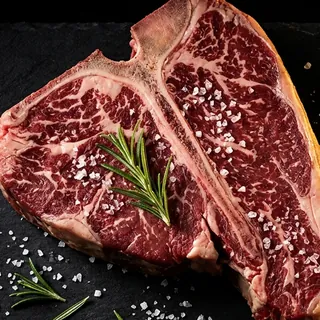
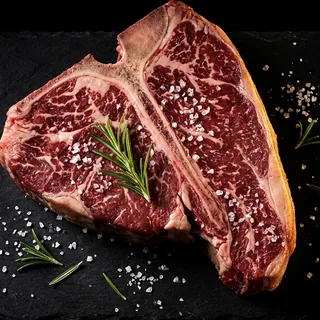
Фото класів мармуру (рібай, нью-йорк, ковбой, томагавк, ті-бон, портерхаус), нові альтернативні й «Для гриля й казана» за списком власника; міньйон повернуто; мініатюри в картках гриля; томагавк з кісткою, значок генератора закрито фактурою

diff --git a/js/products.js b/js/products.js
@@ -30,59 +30,64 @@ window.PRODUCTS = [
   { id: 'ribeye',      cat: 'classic', name: 'Рібай',       en: 'Ribeye',       desc: 'Найсоковитіший, щедрий мармур',       perKg: 1700, weight: 350,  badge: 'Хіт',              photo: 'images/ribeye.webp', featured: true,
     cook: [['Просмаження', 'medium rare, 54–56 °C'], ['Сковорода', '3–4 хв з кожного боку, 5 хв відпочинку'], ['Порада', 'Посоли за 40 хв до смаження — скоринка буде кращою']],
     grades: [
-      { id: 'select', label: 'Select', perKg: 0, photo: '' },
-      { id: 'choice', label: 'Choice', perKg: 0, photo: '' },
-      { id: 'prime',  label: 'Prime',  perKg: 0, photo: '' }
+      { id: 'select', label: 'Select', perKg: 0, photo: 'images/ribeye-select.webp' },
+      { id: 'choice', label: 'Choice', perKg: 0, photo: 'images/ribeye-choice.webp' },
+      { id: 'prime',  label: 'Prime',  perKg: 0, photo: 'images/ribeye-prime.webp' }
     ] },
   { id: 'striploin',   cat: 'classic', name: 'Нью-Йорк',    en: 'Striploin',    desc: 'Щільний, з яскравим смаком',          perKg: 1200, weight: 350,  badge: 'Витримка 21 день', photo: 'images/striploin.webp',
     grades: [
-      { id: 'select', label: 'Select', perKg: 0, photo: '' },
-      { id: 'choice', label: 'Choice', perKg: 0, photo: '' },
-      { id: 'prime',  label: 'Prime',  perKg: 0, photo: '' }
+      { id: 'select', label: 'Select', perKg: 0, photo: 'images/striploin-select.webp' },
+      { id: 'choice', label: 'Choice', perKg: 0, photo: 'images/striploin-choice.webp' },
+      { id: 'prime',  label: 'Prime',  perKg: 0, photo: 'images/striploin-prime.webp' }
     ] },
   { id: 't-bone',      cat: 'classic', name: 'Ті-бон',      en: 'T-bone',       desc: 'Два стейки на одній кістці',          perKg: 1250, weight: 500,  badge: '',                 photo: 'images/t-bone.webp',
     grades: [
-      { id: 'classic', label: 'Класичний', perKg: 0, photo: '' },
-      { id: 'prime',   label: 'Prime',     perKg: 0, photo: '' }
+      { id: 'classic', label: 'Класичний', perKg: 0, photo: 'images/t-bone-classic.webp' },
+      { id: 'prime',   label: 'Prime',     perKg: 0, photo: 'images/t-bone-prime.webp' }
     ] },
   { id: 'porterhouse', cat: 'classic', name: 'Портерхаус',  en: 'Porterhouse',  desc: 'Як ті-бон, але більше вирізки',       perKg: 1300, weight: 600,  badge: '',                 photo: 'images/porterhouse.webp',
     grades: [
-      { id: 'classic', label: 'Класичний', perKg: 0, photo: '' },
-      { id: 'prime',   label: 'Prime',     perKg: 0, photo: '' }
+      { id: 'classic', label: 'Класичний', perKg: 0, photo: 'images/porterhouse-classic.webp' },
+      { id: 'prime',   label: 'Prime',     perKg: 0, photo: 'images/porterhouse.webp' }
     ] },
   { id: 'cowboy',      cat: 'classic', name: 'Ковбой',      en: 'Cowboy',       desc: 'Рібай на короткій кістці',            perKg: 1550, weight: 700,  badge: '',                 photo: 'images/cowboy.webp',
     grades: [
-      { id: 'select', label: 'Select', perKg: 0, photo: '' },
-      { id: 'choice', label: 'Choice', perKg: 0, photo: '' },
-      { id: 'prime',  label: 'Prime',  perKg: 0, photo: '' }
+      { id: 'select', label: 'Select', perKg: 0, photo: 'images/cowboy-select.webp' },
+      { id: 'choice', label: 'Choice', perKg: 0, photo: 'images/cowboy-choice.webp' },
+      { id: 'prime',  label: 'Prime',  perKg: 0, photo: 'images/cowboy.webp' }
     ] },
   { id: 'tomahawk',    cat: 'classic', name: 'Томагавк',    en: 'Tomahawk',     desc: 'Рібай на довгій кістці, для компанії', perKg: 1600, weight: 1100, badge: 'Витримка 21 день', photo: 'images/tomahawk.webp', featured: true,
     cook: [['Просмаження', 'medium rare, 54–56 °C'], ['Як готувати', 'Духовка 120 °C до 50 °C всередині, потім 1–2 хв на бік на гриль'], ['Порція', 'на 2–3 людей']],
     grades: [
-      { id: 'select', label: 'Select', perKg: 0, photo: '' },
-      { id: 'choice', label: 'Choice', perKg: 0, photo: '' },
-      { id: 'prime',  label: 'Prime',  perKg: 0, photo: '' }
+      { id: 'select', label: 'Select', perKg: 0, photo: 'images/tomahawk-select.webp' },
+      { id: 'choice', label: 'Choice', perKg: 0, photo: 'images/tomahawk-choice.webp' },
+      { id: 'prime',  label: 'Prime',  perKg: 0, photo: 'images/tomahawk-prime.webp' }
     ] },
   { id: 'club',        cat: 'classic', name: 'Клаб-стейк',  en: 'Club steak',   desc: 'Нью-Йорк на кістці',                   perKg: 0,    weight: 450,  badge: '',                 photo: '',
     grades: [
       { id: 'classic', label: 'Класичний', perKg: 0, photo: '' },
       { id: 'prime',   label: 'Prime',     perKg: 0, photo: '' }
     ] },
-  { id: 'filet',       cat: 'classic', name: 'Міньйон',     en: 'Filet mignon', desc: 'Найніжніший, з центру вирізки',       perKg: 2200, weight: 300,  badge: '',                 photo: 'images/filet-mignon.webp' },
+  { id: 'filet',       cat: 'classic', name: 'Міньйон',     en: 'Filet mignon', desc: 'Найніжніший, з центру вирізки',       perKg: 2200, weight: 300,  badge: '',                 photo: 'images/filet-mignon.webp' },  // без класів мармуру — одна позиція
 
-  // ---------- АЛЬТЕРНАТИВНІ (склад від 28.09: лише ці 6) ----------
+  // ---------- АЛЬТЕРНАТИВНІ (склад від 29.09) ----------
   // perKg: 0 / price: 0 — ціна ще не вказана: на сайті «Ціну уточнюйте» і кнопка дзвінка замість «В кошик».
-  { id: 'top-blade',   cat: 'alt', name: 'Топ блейд',   en: 'Top blade',      desc: 'Лопатковий стейк з жилкою по центру', perKg: 0,   weight: 300, badge: '',    photo: 'images/top-blade.webp', like: 'Ніжний, з яскравим смаком — той самий м’яз, що й флет-айрон' },
-  { id: 'chuck-roll',  cat: 'alt', name: 'Чак-ай рол',  en: 'Chuck eye roll', desc: 'Продовження рібаю з лопаткової частини', perKg: 850, weight: 350, badge: '', photo: 'images/chuck-roll.webp', like: 'Схожий на рібай, а ціна нижча' },
-  { id: 'flank',       cat: 'alt', name: 'Фланк',       en: 'Flank',          desc: 'Яскравий м’ясний смак',       perKg: 750, weight: 400, badge: '',    photo: 'images/flank.webp', like: 'Нежирний, різати тонко поперек волокон' },
-  { id: 'rump',        cat: 'alt', name: 'Рамп',        en: 'Rump',           desc: 'Щільний стейк з огузка',       perKg: 0,   weight: 350, badge: '',    photo: '', like: 'Нежирний, з глибоким «м’ясним» смаком' },
-  { id: 'top-round',   cat: 'alt', name: 'Топ раунд',   en: 'Top round',      desc: 'Найпісніший стейк зі стегна',  perKg: 0,   weight: 350, badge: '',    photo: '', like: 'До medium rare і тонко поперек волокон — або на ростбіф' },
-  { id: 'ossobuco',    cat: 'alt', name: 'Оссобуко',    en: 'Ossobuco',       desc: 'Зріз гомілки з мозковою кісткою', perKg: 470,   weight: 450, badge: '',    photo: '', like: 'Не для пательні: тушкувати 2–3 год — м’ясо тане, мозок — делікатес' },
-  { id: 'picanha',     cat: 'alt', name: 'Піканья',     en: 'Picanha',        desc: 'З жировою шапкою, хіт гриля', perKg: 950, weight: 350, badge: 'Хіт', photo: 'images/picanha.webp', like: 'Соковита, як рібай, завдяки жировій шапці' },
+  { id: 'picanha',     cat: 'alt', name: 'Піканья',       en: 'Picanha',      desc: 'З жировою шапкою, хіт гриля',             perKg: 950, weight: 350, badge: 'Хіт', photo: 'images/picanha.webp', like: 'Соковита, як рібай, завдяки жировій шапці' },
+  { id: 'rump',        cat: 'alt', name: 'Рамп',          en: 'Rump',         desc: 'Щільний стейк з огузка',                  perKg: 0,   weight: 350, badge: '',    photo: 'images/rump.webp', like: 'Нежирний, з глибоким «м’ясним» смаком' },
+  { id: 'topside',     cat: 'alt', name: 'Топ сайд',      en: 'Topside',      desc: 'Нежирний стейк з внутрішньої частини стегна', perKg: 0, weight: 350, badge: '', photo: 'images/topside.webp', like: 'До medium rare і тонко поперек волокон — або цілим на ростбіф' },
+  { id: 'silverside',  cat: 'alt', name: 'Сильвер сайд',  en: 'Silverside',   desc: 'Нежирний стейк із зовнішньої частини стегна', perKg: 0, weight: 350, badge: '', photo: 'images/silverside.webp', like: 'Найкраще — маринад і швидке смаження або довге тушкування' },
+  { id: 'tri-tip',     cat: 'alt', name: 'Трай-тип',      en: 'Tri-tip',      desc: 'Каліфорнійська класика',                  perKg: 850, weight: 400, badge: '',    photo: 'images/tri-tip.webp', like: 'Цілий шматок на гриль для компанії' },
+  { id: 'eye-round',   cat: 'alt', name: 'Ай раунд',      en: 'Eye of round', desc: 'Круглий нежирний медальйон зі стегна',    perKg: 0,   weight: 300, badge: '',    photo: 'images/eye-round.webp', like: 'Формою як міньйон, але щільніший — не пересмажуй' },
+  { id: 'top-blade',   cat: 'alt', name: 'Топ блейд',     en: 'Top blade',    desc: 'Лопатковий стейк з жилкою по центру',     perKg: 0,   weight: 300, badge: '',    photo: 'images/top-blade.webp', like: 'Ніжний, з яскравим смаком — той самий м’яз, що й флет-айрон' },
+  { id: 'spider',      cat: 'alt', name: 'Спайдер',       en: 'Spider steak', desc: 'Рідкісний «стейк м’ясника» зі стегна',    perKg: 0,   weight: 250, badge: '',    photo: '', like: 'Мармур павутинкою, дуже соковитий — з однієї туші лише два' },
+  { id: 'flank',       cat: 'alt', name: 'Фланк',         en: 'Flank',        desc: 'Яскравий м’ясний смак',                   perKg: 750, weight: 400, badge: '',    photo: 'images/flank.webp', like: 'Нежирний, різати тонко поперек волокон' },
+  { id: 'bavette',     cat: 'alt', name: 'Бавет',         en: 'Bavette',      desc: 'Найкраще бере маринад',                   perKg: 700, weight: 350, badge: '',    photo: 'images/bavette.webp', like: 'Як фланк, але м’якший і соковитіший' },
 
-  // ---------- БУРГЕР І ШАШЛИК ----------
-  { id: 'burger-200',  cat: 'burger', name: 'Бургерна котлета', en: 'Burger patty',    desc: 'Фарш з обрізі витриманих стейків, 20% жиру, без добавок', price: 0, pack: '200 г', badge: '', photo: 'images/patties-200.webp' },
-  { id: 'shashlyk',    cat: 'burger', name: 'Шашлик з вирізки', en: 'Tenderloin kebab', desc: 'Сирий: кубики яловичої вирізки в маринаді, у вакуумі — одразу на мангал', perKg: 800, weight: 1000, badge: 'Новинка', photo: '' }
+  // ---------- ДЛЯ ГРИЛЯ Й КАЗАНА (cat 'burger' — історична назва групи) ----------
+  { id: 'ossobuco',    cat: 'burger', name: 'Оссобуко',         en: 'Ossobuco',         desc: 'Зріз гомілки з мозковою кісткою. Не для пательні: тушкувати 2–3 год', perKg: 470, weight: 450, badge: '', photo: 'images/ossobuco.webp' },
+  { id: 'shashlyk',    cat: 'burger', name: 'Шашлик з вирізки', en: 'Tenderloin kebab', desc: 'Сирий: кубики яловичої вирізки в маринаді, у вакуумі — одразу на мангал', perKg: 800, weight: 1000, badge: 'Новинка', photo: 'images/shashlyk.webp' },
+  { id: 'lula',        cat: 'burger', name: 'Люля-кебаб',       en: 'Lula kebab',       desc: 'Сирий: рубаний фарш з цибулею й зеленню на шампурах, у вакуумі', perKg: 0, weight: 500, badge: 'Новинка', photo: 'images/lula.webp' },
+  { id: 'burger-200',  cat: 'burger', name: 'Бургерна котлета', en: 'Burger patty',     desc: 'Фарш з обрізі витриманих стейків, 20% жиру, без добавок', price: 0, pack: '200 г', badge: '', photo: 'images/patties-200.webp' }
 ];
 
 /* ---------- КЛАСИ МАРМУРУ (поле grades) ----------
@@ -113,5 +118,5 @@ window.CATEGORIES = [
   { id: 'all',     label: 'Всі' },
   { id: 'classic', label: 'Класичні' },
   { id: 'alt',     label: 'Альтернативні' },
-  { id: 'burger',  label: 'Бургер і шашлик' }
+  { id: 'burger',  label: 'Гриль і казан' }
 ];

diff --git a/js/app.js b/js/app.js
@@ -19,7 +19,7 @@
     return {
       id: p.id + '@' + g.id, pid: p.id, gid: g.id, grade: g.label, cat: p.cat,
       name: p.name + ' · ' + g.label, en: p.en, desc: p.desc,
-      perKg: g.perKg || 0, weight: p.weight, photo: g.photo || p.photo
+      perKg: g.perKg || 0, weight: p.weight, photo: g.photo || ''
     };
   }
   var byKey = {};
@@ -31,7 +31,13 @@
   var STORE_KEY = 'shopostejkam.cart.v1';
   // grade: обраний у картці клас { ribeye: 'prime' }; за замовчуванням — перший
   var state = { cart: {}, codeword: '', filter: 'all', method: 'pickup', grade: {} };
-  function gradeKey(p) { return p.grades && p.grades.length ? p.id + '@' + (state.grade[p.id] || p.grades[0].id) : p.id; }
+  // за замовчуванням у картці — Prime (якщо є фото), інакше перший клас із фото
+  function defaultGrade(p) {
+    var withPhoto = p.grades.filter(function (g) { return g.photo; });
+    var prime = withPhoto.filter(function (g) { return g.id === 'prime'; })[0];
+    return (prime || withPhoto[0] || p.grades[0]).id;
+  }
+  function gradeKey(p) { return p.grades && p.grades.length ? p.id + '@' + (state.grade[p.id] || defaultGrade(p)) : p.id; }
 
   var $ = function (s, r) { return (r || document).querySelector(s); };
   var $$ = function (s, r) { return Array.prototype.slice.call((r || document).querySelectorAll(s)); };
@@ -113,7 +119,7 @@
   var GROUPS = {
     classic: { title: 'Класичні', lead: 'Перевірені часом відруби' },
     alt: { title: 'Альтернативні', lead: 'Для тих, хто вже скуштував рібай і хоче далі' },
-    burger: { title: 'Бургер і шашлик', lead: 'Котлета з обрізі витриманих стейків і шашлик з вирізки — для гриля й компанії',
+    burger: { title: 'Для гриля й казана', lead: 'Шашлик, люля й котлета — сирі, у вакуумі, одразу на вогонь. Оссобуко — для казана',
       bg: 'images/burgers-bg.webp', bgSmall: 'images/burgers-bg-800.webp' }
   };
 
@@ -255,13 +261,16 @@
   // БУРГЕРИ — картки на фото-смузі
   function burgerCardHTML(p) {
     return '<article class="bcard" data-id="' + p.id + '">' +
-      // фото котлет уже стоїть фоном усієї смуги — у картці не дублюємо (фото товару лишається для кошика)
+      // мініатюра відкривається на весь екран, як у альтернативних
+      (p.photo ? '<button class="bcard__thumb" type="button" data-zoom="' + p.id + '" aria-label="Збільшити фото: ' + esc(p.name) + '">' + media(p, 'thumb') + '</button>' : '') +
+      '<div class="bcard__main">' +
       '<div class="bcard__top"><p class="bcard__pack">' + esc(p.pack || (hasPrice(p) ? money(p.perKg) + '/кг · ' : '') + 'порція ≈ ' + weightLabel(p.weight)) + '</p>' + badge(p, 'bcard__badge') + '</div>' +
       '<h4 class="bcard__name">' + esc(p.name) + '</h4>' +
       '<p class="bcard__en">' + esc(p.en) + '</p>' +
       '<p class="bcard__desc">' + esc(p.desc) + '</p>' +
       '<div class="bcard__foot">' + priceHTML(p, 'bcard__sum') +
         '<div class="card__action" data-action="' + p.id + '" data-kind="full"></div>' +
+      '</div>' +
       '</div>' +
     '</article>';
   }

diff --git a/css/styles.css b/css/styles.css
@@ -346,6 +346,15 @@ button.mrow__img { cursor: zoom-in; }
   background: rgba(19, 19, 21, .78); border: 1px solid rgba(198,166,110,.22); border-radius: var(--r);
 }
 @supports (backdrop-filter: blur(8px)) { .bcard { background: rgba(19, 19, 21, .62); backdrop-filter: blur(8px); } }
+.bcard { flex-direction: row; gap: 16px; align-items: flex-start; min-width: 0; }
+.bcard__top { flex-wrap: wrap; row-gap: 6px; }
+@media (max-width: 767px) { .bcard { gap: 12px; padding: 16px; } .bcard__foot { flex-wrap: wrap; } .bcard .card__action { flex: 1 1 150px; } }
+.bcard__main { flex: 1; min-width: 0; }
+.bcard__thumb { position: relative; flex: none; width: 84px; height: 84px; padding: 0; border: 0; border-radius: 8px; overflow: hidden; background: #19191b; box-shadow: 0 0 0 1px rgba(198,166,110,.25); cursor: zoom-in; }
+.bcard__thumb img { width: 100%; height: 100%; object-fit: cover; transition: transform .3s var(--ease-out); }
+@media (hover: hover) { .bcard__thumb:hover img { transform: scale(1.06); } }
+@media (min-width: 1024px) { .bcard__thumb { width: 96px; height: 96px; } }
+@media (max-width: 400px) { .bcard__thumb { width: 72px; height: 72px; } }
 .bcard__img { margin: -22px -22px 18px; aspect-ratio: 4 / 3; overflow: hidden; }
 .bcard__img img { width: 100%; height: 100%; object-fit: cover; }
 .bcard__top { display: flex; align-items: center; justify-content: space-between; gap: 10px; min-height: 24px; }
@@ -371,7 +380,8 @@ button.mrow__img { cursor: zoom-in; }
   .cgroup--burger::after { background: linear-gradient(90deg, var(--bg) 0%, var(--bg) 42%, rgba(19,19,21,.55) 56%, rgba(19,19,21,0) 78%); }
   .cgroup--burger .container > * { max-width: 600px; }
   .bgrid { grid-template-columns: 1fr; gap: 12px; }
-  .bcard { display: grid; grid-template-columns: 1fr auto; column-gap: 20px; align-items: center; padding: 18px 20px; }
+  .bcard { padding: 18px 20px; align-items: center; }
+  .bcard__main { display: grid; grid-template-columns: 1fr auto; column-gap: 20px; align-items: center; }
   .bcard__top { grid-column: 1; min-height: 0; justify-content: flex-start; }
   .bcard__name { grid-column: 1; margin-top: 6px; font-size: 22px; }
   .bcard__en { grid-column: 1; }

diff --git a/index.html b/index.html
@@ -70,7 +70,7 @@
       <nav class="nav" id="nav" aria-label="Головне меню">
         <a href="#catalog" data-filter="classic">Класичні</a>
         <a href="#catalog" data-filter="alt">Альтернативні</a>
-        <a href="#catalog" data-filter="burger">Бургер · шашлик</a>
+        <a href="#catalog" data-filter="burger">Гриль і казан</a>
         <a href="#horeca">Ресторанам</a>
         <a href="#delivery">Доставка</a>
         <a href="#faq">Питання</a>
@@ -220,7 +220,7 @@
           <li class="pain">
             <p class="pain__q">Рібай є, а далі — пусто</p>
             <p class="pain__bad">Піканью, топ блейд чи рамп у магазині не знайти.</p>
-            <p class="pain__good"><strong>У нас:</strong> 8 класичних і 7 альтернативних відрубів, бургерна котлета і маринований шашлик з вирізки — в одному місці.</p>
+            <p class="pain__good"><strong>У нас:</strong> 7 класичних стейків у класах мармуру, 10 альтернативних відрубів, а ще шашлик, люля, котлета й оссобуко — в одному місці.</p>
           </li>
         </ol>
       </div>

diff --git a/tools/demarble.py b/tools/demarble.py
@@ -1,0 +1,30 @@
+"""Приглушує мармур (білі прожилки всередині м'яса), не чіпаючи жировий край і фон.
+python3 tools/demarble.py вхід.webp вихід.webp 0.5   — 0.5 = прибрати ~половину мармуру"""
+import sys
+import numpy as np
+from PIL import Image, ImageFilter
+
+def demarble(im, k=0.5):
+    a = np.asarray(im.convert('RGB')).astype(np.float32)
+    R, G, B = a[..., 0], a[..., 1], a[..., 2]
+    lum = 0.3 * R + 0.59 * G + 0.11 * B
+    red = (R > G + 45) & (R > 70)                                  # червоне м'ясо
+    # «тіло» м'яса: закриваємо червону маску — прожилки всередині потрапляють усередину, товстий жировий край — ні
+    m = Image.fromarray((red * 255).astype(np.uint8))
+    body = np.asarray(m.filter(ImageFilter.MaxFilter(13)).filter(ImageFilter.MinFilter(13))) > 127
+    body = np.asarray(Image.fromarray((body * 255).astype(np.uint8)).filter(ImageFilter.MinFilter(9))) > 127
+    fatness = np.clip((lum - 110) / 70, 0, 1) * np.clip(1 - (R - G - 30) / 60, 0, 1)   # світле й не червоне
+    fat = fatness * body
+    # колір навколишнього м'яса: нормалізоване розмиття лише по червоних пікселях
+    w = red.astype(np.float32)
+    def box(x, r):
+        c = np.cumsum(np.pad(x, ((r + 1, r), (0, 0)), mode='edge'), 0); x = c[2 * r + 1:] - c[:-2 * r - 1]
+        c = np.cumsum(np.pad(x, ((0, 0), (r + 1, r)), mode='edge'), 1); return c[:, 2 * r + 1:] - c[:, :-2 * r - 1]
+    def blur(x, r=6): return box(box(box(x, r), r), r)            # ≈ гаусове розмиття
+    fill = np.stack([blur(a[..., c] * w) for c in range(3)], -1) / (blur(w)[..., None] + 1e-3)
+    alpha = (fat * k)[..., None]
+    out = a * (1 - alpha) + fill * alpha
+    return Image.fromarray(out.clip(0, 255).astype(np.uint8))
+
+if __name__ == '__main__':
+    demarble(Image.open(sys.argv[1]), float(sys.argv[3]) if len(sys.argv) > 3 else 0.5).save(sys.argv[2], quality=92)
